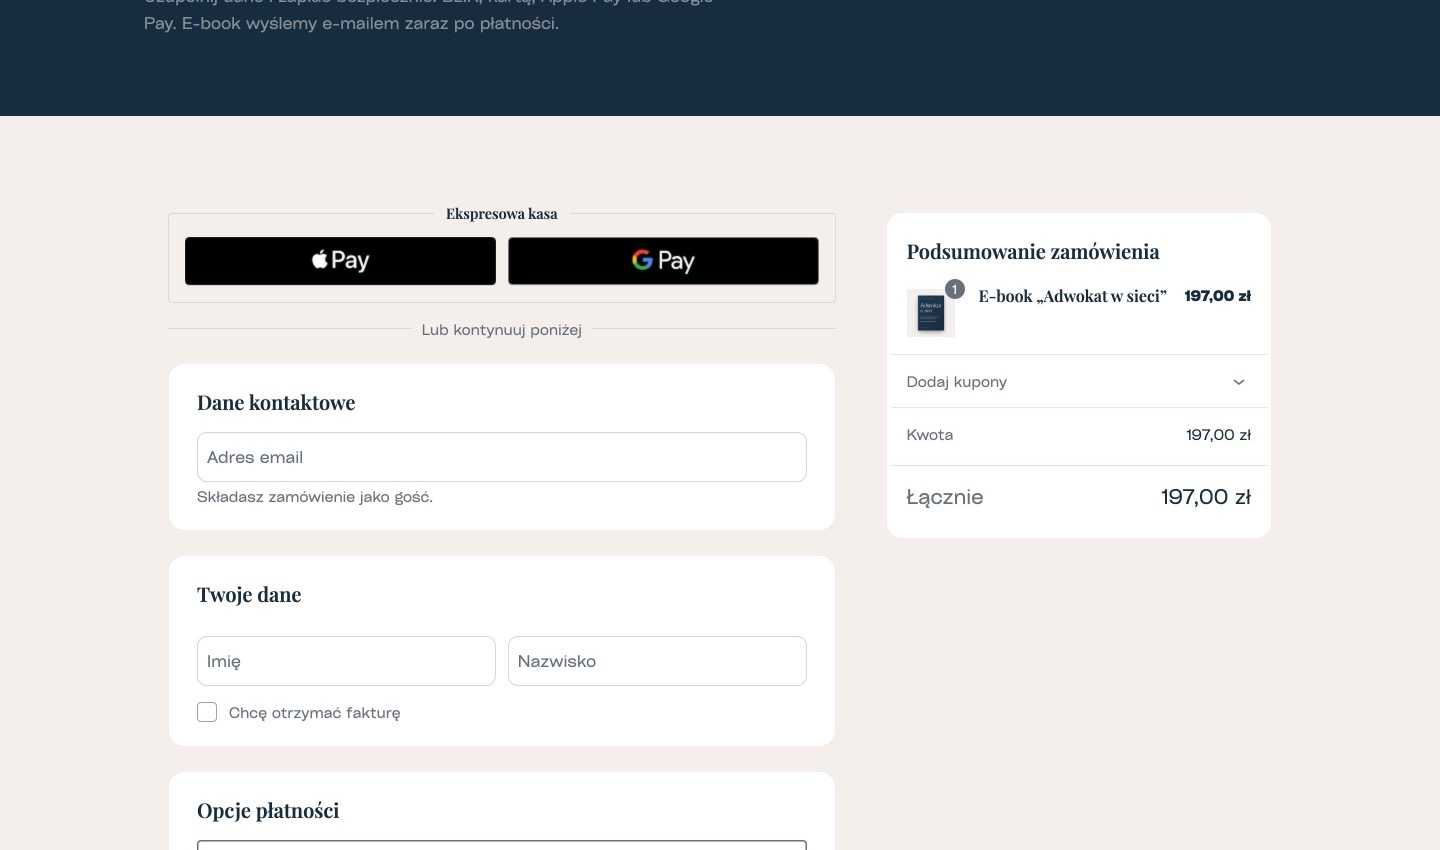
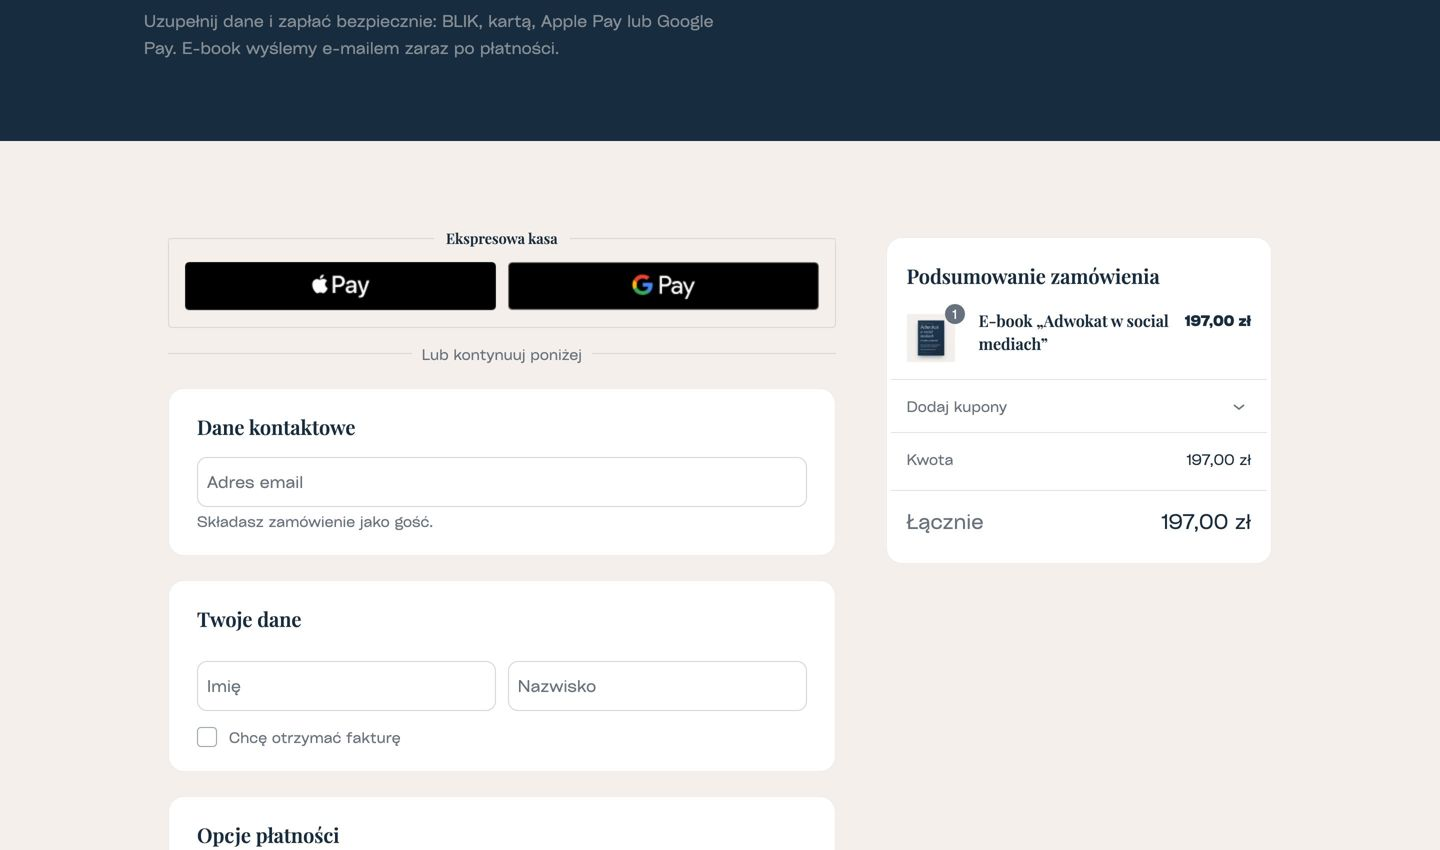
Nowy tytuł e-booka w realizacjach i nowe zrzuty sklepu

diff --git a/src/lib/content.ts b/src/lib/content.ts
@@ -35,7 +35,7 @@ export type Project = {
 export const PROJECTS: Project[] = [
   {
     slug: "sklep",
-    title: "Sklep z e-bookiem „Adwokat w sieci”",
+    title: "Sklep z e-bookiem „Adwokat w social mediach”",
     client: "InstaPara · sprzedaż produktu cyfrowego",
     url: "https://sklep.instapara.pl",
     urlLabel: "sklep.instapara.pl",
